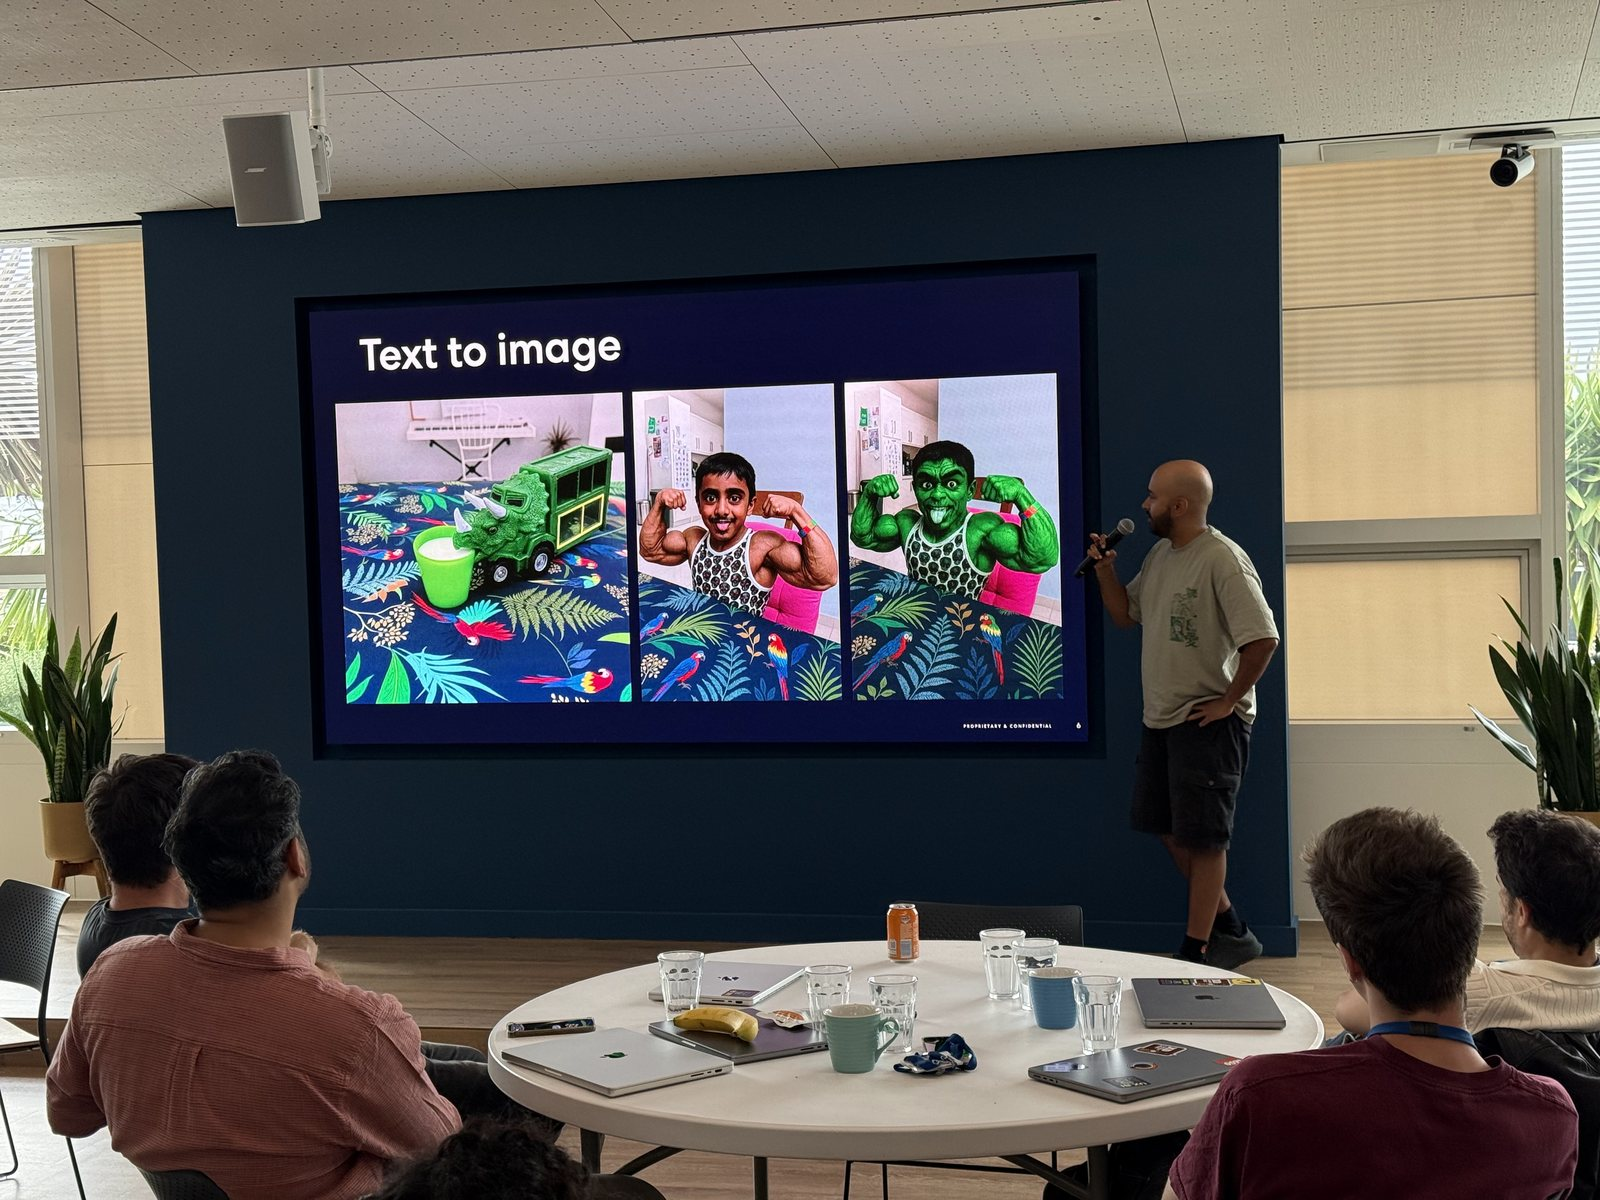
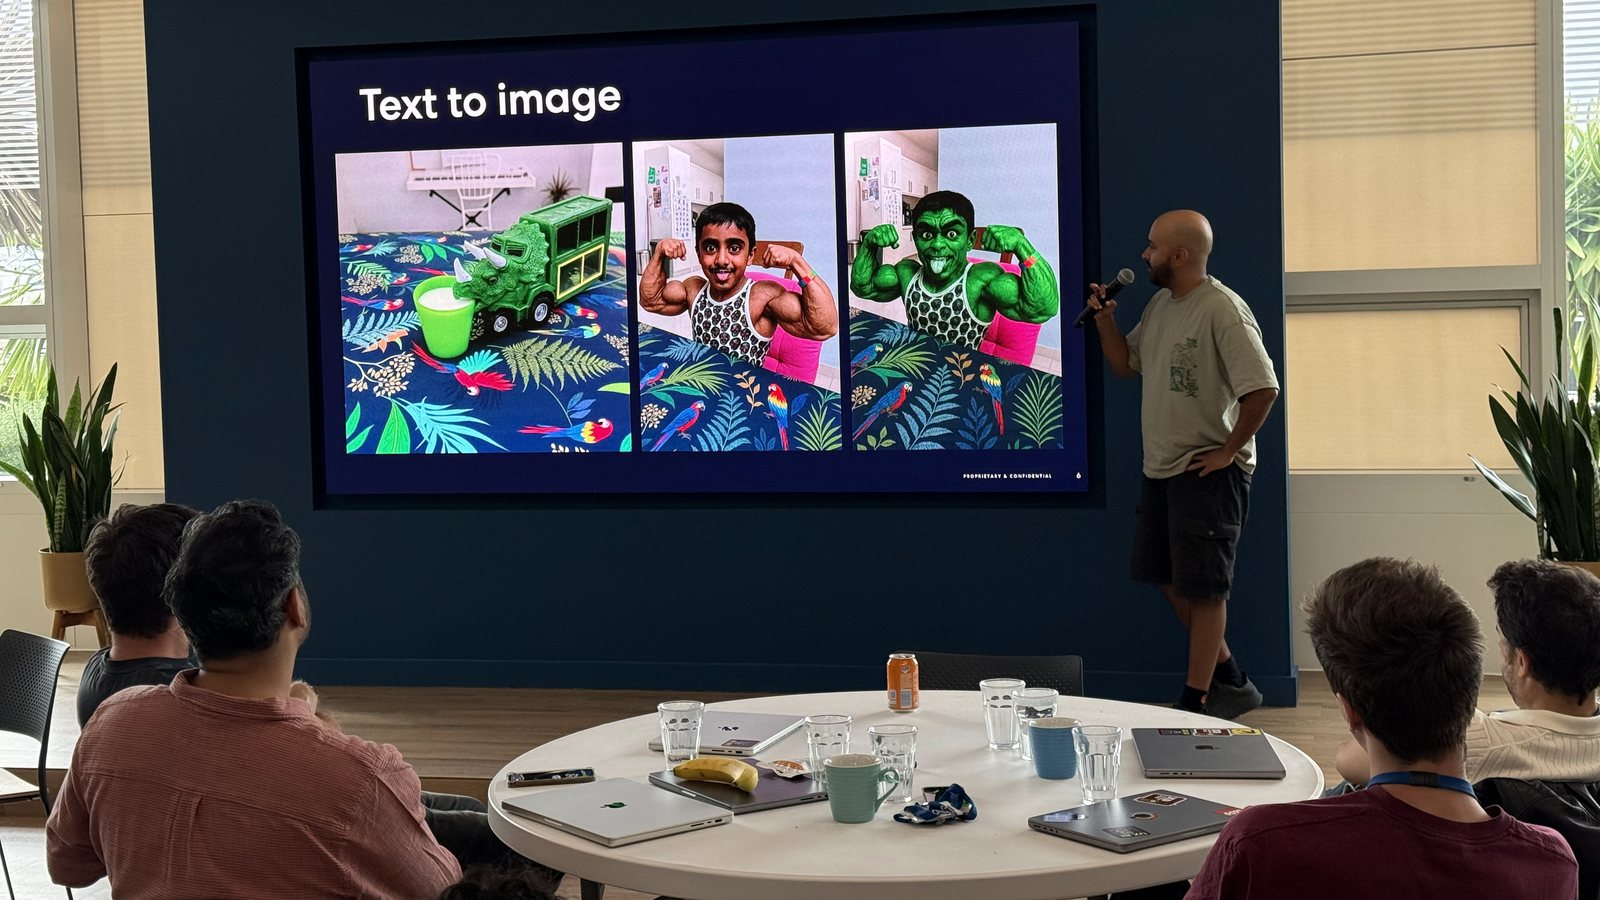
Recrop Leading card image to show the audience
Claude-Session: https://claude.ai/code/session_01CJsRGXUtQTrvnDXWt471hY

diff --git a/index.html b/index.html
@@ -8,7 +8,7 @@
   <link rel="preconnect" href="https://fonts.googleapis.com">
   <link rel="preconnect" href="https://fonts.gstatic.com" crossorigin>
   <link href="https://fonts.googleapis.com/css2?family=Atkinson+Hyperlegible:ital,wght@0,400;0,700;1,400&family=Figtree:wght@600;700;800&display=swap" rel="stylesheet">
-  <link rel="stylesheet" href="./style.css?v=20261120c">
+  <link rel="stylesheet" href="./style.css?v=20261120d">
 </head>
 <body data-lens="craft">
 <script>(function(){var d=document.body,p,s;try{p=new URLSearchParams(location.search)}catch(e){p={get:function(){return null}}}try{s=window.sessionStorage}catch(e){s=null}function pick(k,ok,def){var v=(p.get(k)||'').toLowerCase();if(ok.indexOf(v)<0){v=null;try{v=s&&s.getItem('vixu-'+k)}catch(e){}}else{try{s&&s.setItem('vixu-'+k,v)}catch(e){}}return ok.indexOf(v)<0?def:v}d.classList.add('js');d.setAttribute('data-lens',pick('lens',['craft','lead'],'craft'));if(pick('review',['1','0'],'0')==='1')d.setAttribute('data-review','')})();</script>
@@ -108,7 +108,7 @@
       <p class="fig"><span class="n">8 into 1</span><span class="l">manual processes brought into one online application</span></p>
     </a></li>
     <li data-craft="8" data-lead="1"><a href="./work/leading-a-design-team.html">
-      <figure class="slot" data-r="thumb"><span class="name">Presenting to the team</span><img src="./images/work/leading-talk.jpg" alt="Vik presenting to a room of colleagues, with a slide titled Text to image on the screen behind" width="1600" height="1200" loading="lazy"></figure>
+      <figure class="slot" data-r="thumb"><span class="name">Presenting to the team</span><img src="./images/work/leading-talk.jpg" alt="Vik presenting to a room of colleagues, with a slide titled Text to image on the screen behind" width="1600" height="900" loading="lazy"></figure>
       <div><p class="when">Expedia Group, 2022 to 2026</p><h3>Leading a design team</h3>
         <p class="line">Three designers reporting to me, up to four contractors, and a wider group of around fifteen across five time zones.</p>
         <p class="angle lens-craft">How I ran the team while keeping a project of my own.</p>
